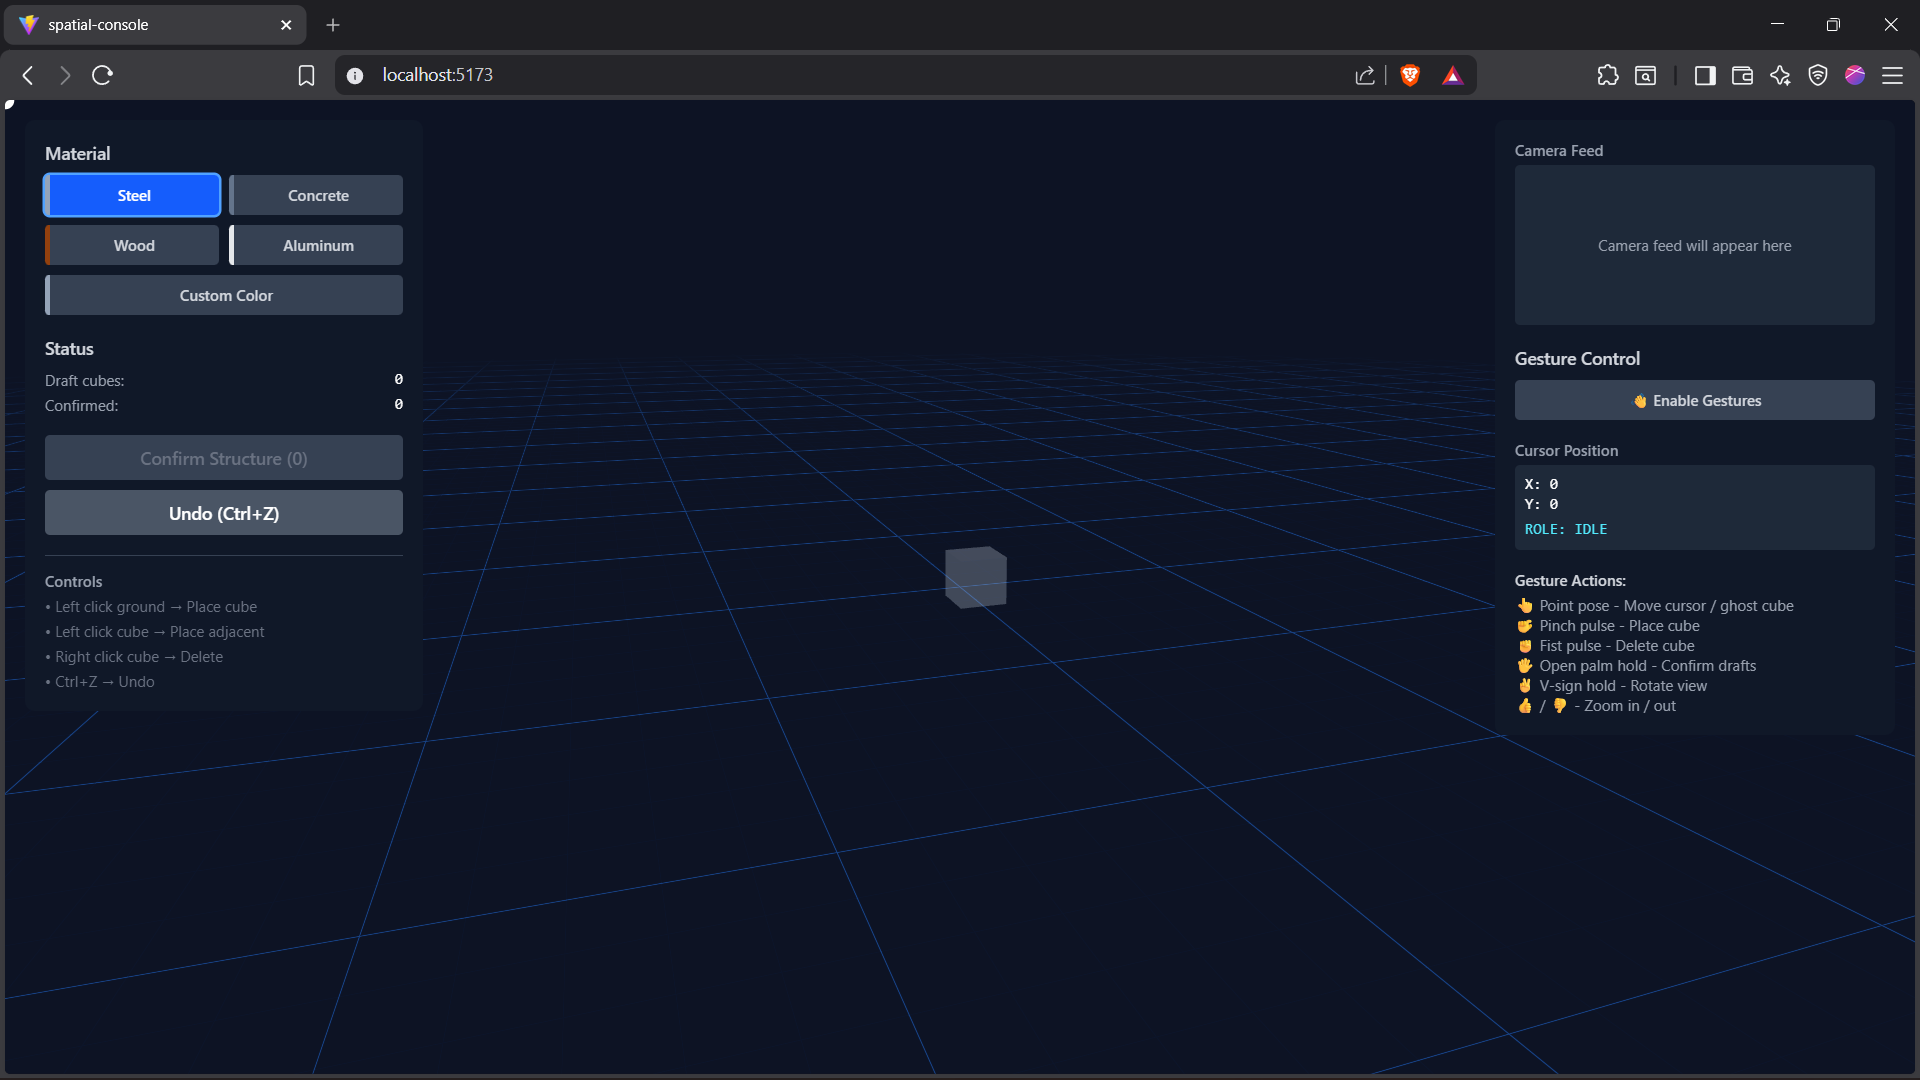
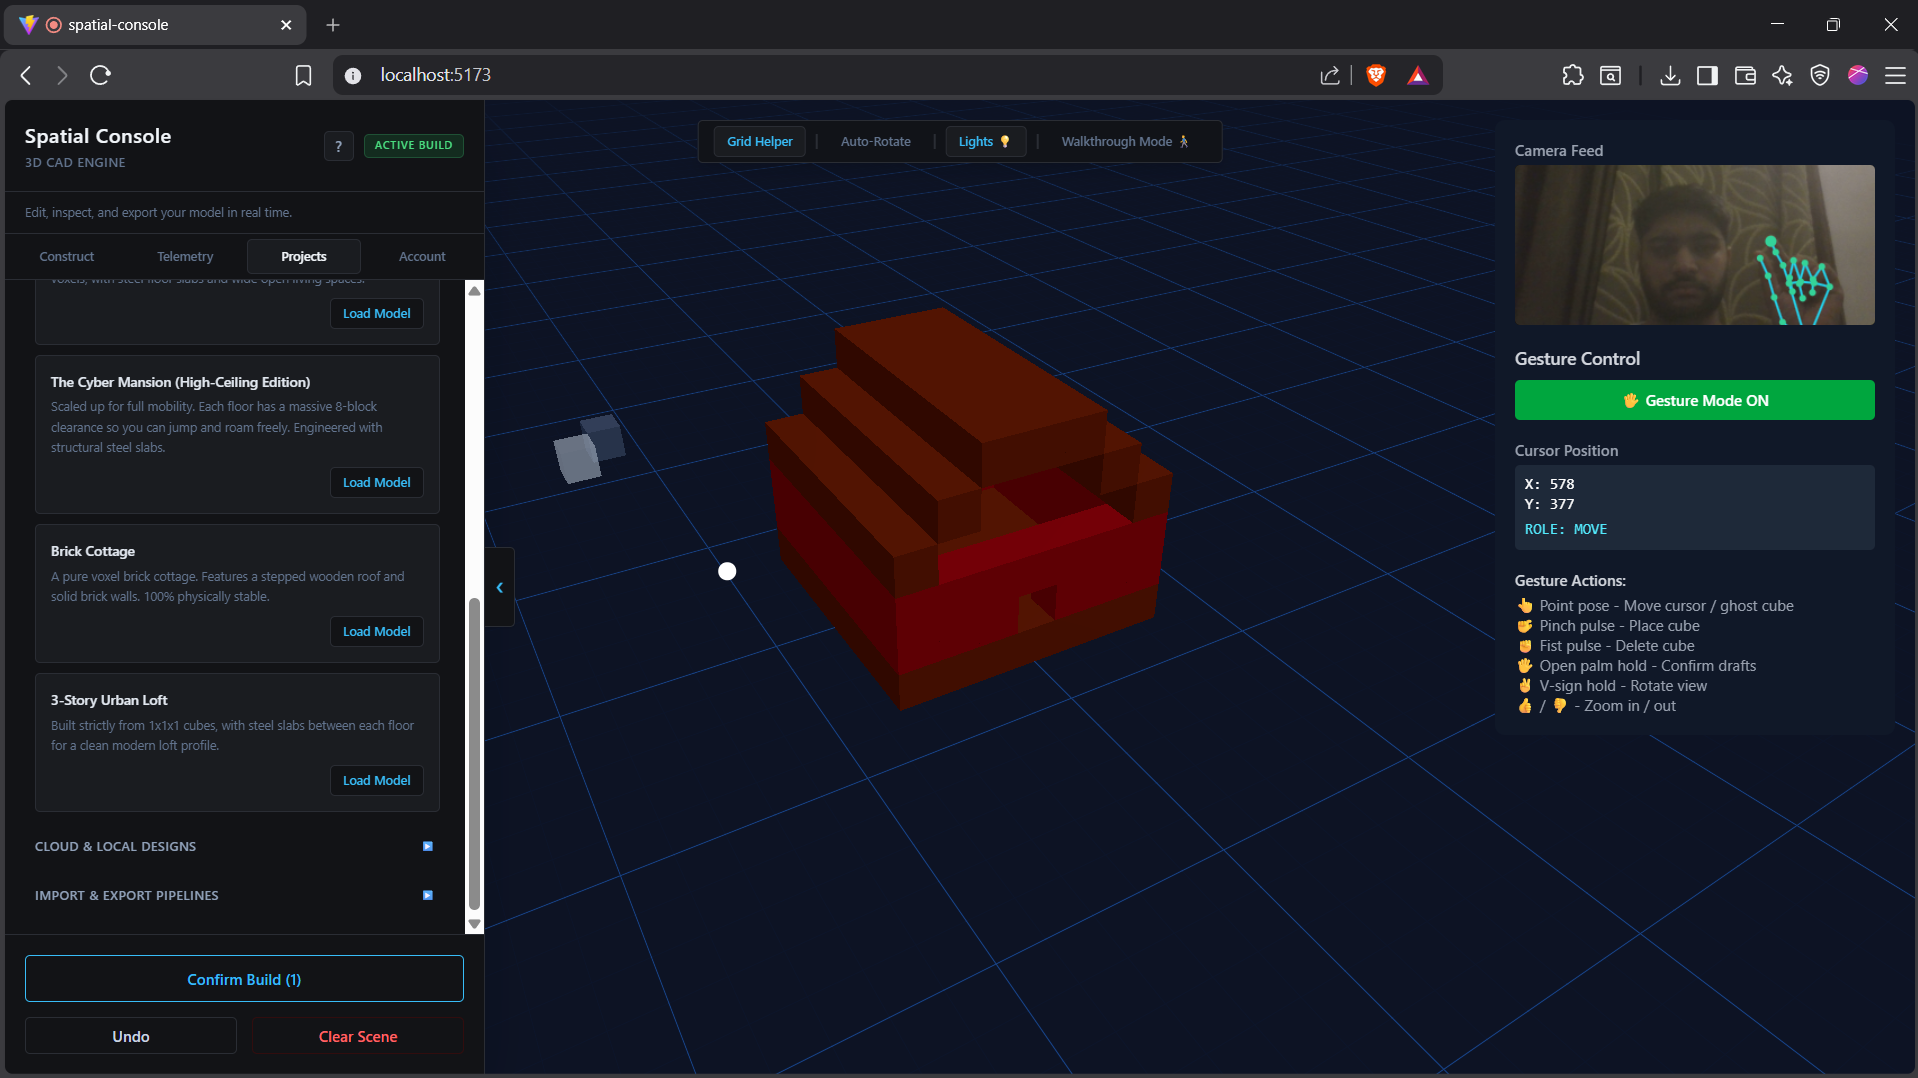
Spatial console reawakened

diff --git a/src/components/Projects.jsx b/src/components/Projects.jsx
@@ -23,115 +23,61 @@ const PROJECTS = [
   {
     id: "spatial-console",
     title: "Spatial Console",
-    // Showcase: hook + short description
     thesis: "Build in 3D using just your hands.",
     category: "AI System",
     status: "active",
     type: "ai",
     tech: ["MediaPipe Hands", "Three.js", "React Three Fiber"],
-    // Showcase: key features as highlights
     highlights: [
-      "Control a 3D cursor using live hand tracking",
-      "Create, move, and place cubes using gestures",
-      "Snap structures cleanly onto a grid",
-      "Build entirely touch-free, directly in the browser",
+      "Control a 3D cursor and place voxels using live hand tracking",
+      "Grid-based spatial partitioning keeps collision checks fast at scale",
+      "First-person walkthrough mode to explore builds from inside",
+      "Runs entirely in-browser — no mouse, no keyboard, no install",
     ],
-    // Showcase: interaction description as authority signal
     authoritySignal:
       "Move your hand → the cursor follows. Gesture → a cube appears. Drag → it snaps perfectly into place.",
-    // Engineered: overview
     overview: {
       problem:
         "Creating and manipulating 3D content typically depends on a mouse, keyboard, and complex tools — making spatial interaction unintuitive and inaccessible for many users.",
       approach:
-        "Built a touchless 3D building system where MediaPipe tracks hand landmarks, gesture logic interprets intent, and a React Three Fiber scene updates in real time.",
+        "Built a touchless 3D building system where MediaPipe tracks hand landmarks, gesture logic interprets intent, a grid-partitioned collision system keeps checks fast as structures grow, and a React Three Fiber scene updates in real time.",
       outcome:
-        "A browser-based spatial environment where your hand becomes the controller — no mouse, no keyboard, just real-time gesture interaction with instant visual feedback.",
+        "A browser-based spatial building tool where your hand becomes the controller — no mouse, no keyboard, with a first-person walkthrough mode to explore what you've built.",
     },
-    // Engineered: architecture
     architecture: {
       description:
         "Webcam Input → Hand Landmarks (MediaPipe) → Gesture Controller → Action Controller → State (Reducer) → 3D Renderer → UI Feedback. Gesture interpretation and rendering logic are fully separated to keep each layer independently testable.",
       decisions: [
+        "Implemented 3×3 grid spatial partitioning for collision checks, reducing narrow-phase checks by 95–98% across benchmark scenes",
         "Separated gesture interpretation from rendering logic — changes to one don't affect the other",
         "Used grid snapping for predictable, reliable placement without free-form ambiguity",
         "Added continuous visual feedback (cursor previews) so intent is always visible to the user",
       ],
     },
-    // Engineered: challenges mapped as problem → solution pairs
     challenges: [
       "Noisy hand tracking caused unstable cursor — applied smoothing and threshold-based position updates",
       "Differentiating intentional gestures from natural motion — introduced gesture gating using confidence scores and timing checks",
-      "State-driven architecture minimizes re-renders — efficient snapping and lightweight rendering keep the scene responsive",
+      "Naive collision checks didn't scale with structure size — added spatial-locality partitioning to cut narrow-phase checks by 95–98%",
+      "State-driven architecture minimizes re-renders — efficient snapping and lightweight rendering keep the scene responsive during concurrent gesture tracking",
     ],
-    // Engineered: metrics reframed around performance + trade-offs
     metrics: [
       {
-        label: "Rendering Architecture",
-        value: "State-driven",
-        context: "minimises re-renders",
+        label: "Collision Optimization",
+        value: "95–98%",
+        context: "reduction in narrow-phase checks (grid partitioning)",
       },
       {
-        label: "Placement System",
-        value: "Grid snap",
-        context: "predictable & reliable",
+        label: "Production Bundle",
+        value: "457 KB gzip",
+        context: "main bundle size",
       },
       {
-        label: "Stability trade-off",
-        value: "Reliability",
-        context: "prioritised over latency",
+        label: "Runtime Performance",
+        value: "150+ FPS",
+        context: "sustained during concurrent gesture tracking",
       },
     ],
     github: "https://github.com/Yuvraj-Malik/spatial-console",
-    live: null,
-  },
-  {
-    id: "jarvis",
-    title: "Jarvis",
-    thesis:
-      "A resilient, multi-provider voice assistant engineered for real desktop automation and fault tolerance.",
-    category: "AI System",
-    status: "shipped",
-    type: "ai",
-    tech: ["Python", "LLM APIs", "Threading", "Edge-TTS"],
-    highlights: [
-      "Modular brain/router/tool architecture",
-      "Multi-LLM fallback (Groq, Gemini, Mistral)",
-      "Persistent session memory + system-level automation",
-    ],
-    authoritySignal: "Fault-tolerant multi-provider architecture",
-    overview: {
-      problem:
-        "Existing voice assistants are reactive and siloed — they answer questions but can't execute multi-step desktop workflows.",
-      approach:
-        "Designed a modular brain/router/tool architecture where a central router dispatches intents to specialized tool modules, with multi-LLM fallback for reliability.",
-      outcome:
-        "A personal desktop AI that handles voice commands, automates workflows, and maintains session context across interactions.",
-    },
-    architecture: {
-      description:
-        "Three-module system: Speech input → Intent router → Tool executor. Router uses lightweight classification before calling LLM to reduce latency. Tools are isolated modules with defined I/O contracts.",
-      decisions: [
-        "Multi-LLM fallback (Groq → Gemini → Mistral) ensures 99%+ uptime",
-        "Isolated tool modules allow hot-swapping without restarting the assistant",
-        "Edge-TTS chosen over cloud TTS for zero-latency local synthesis",
-      ],
-    },
-    challenges: [
-      "Intent ambiguity between similar commands — resolved with a two-stage classification pipeline",
-      "Session memory bloat over long conversations — implemented sliding window with summary compression",
-      "Cross-platform subprocess control — abstracted OS-specific calls behind a unified interface",
-    ],
-    metrics: [
-      { label: "Intent Classification", value: "~94%", context: "accuracy" },
-      {
-        label: "Voice Response Latency",
-        value: "<1.2s",
-        context: "end-to-end",
-      },
-      { label: "LLM Fallback Success", value: "99%+", context: "uptime" },
-    ],
-    github: "https://github.com/Yuvraj-Malik/Jarvis",
     live: null,
   },
   {